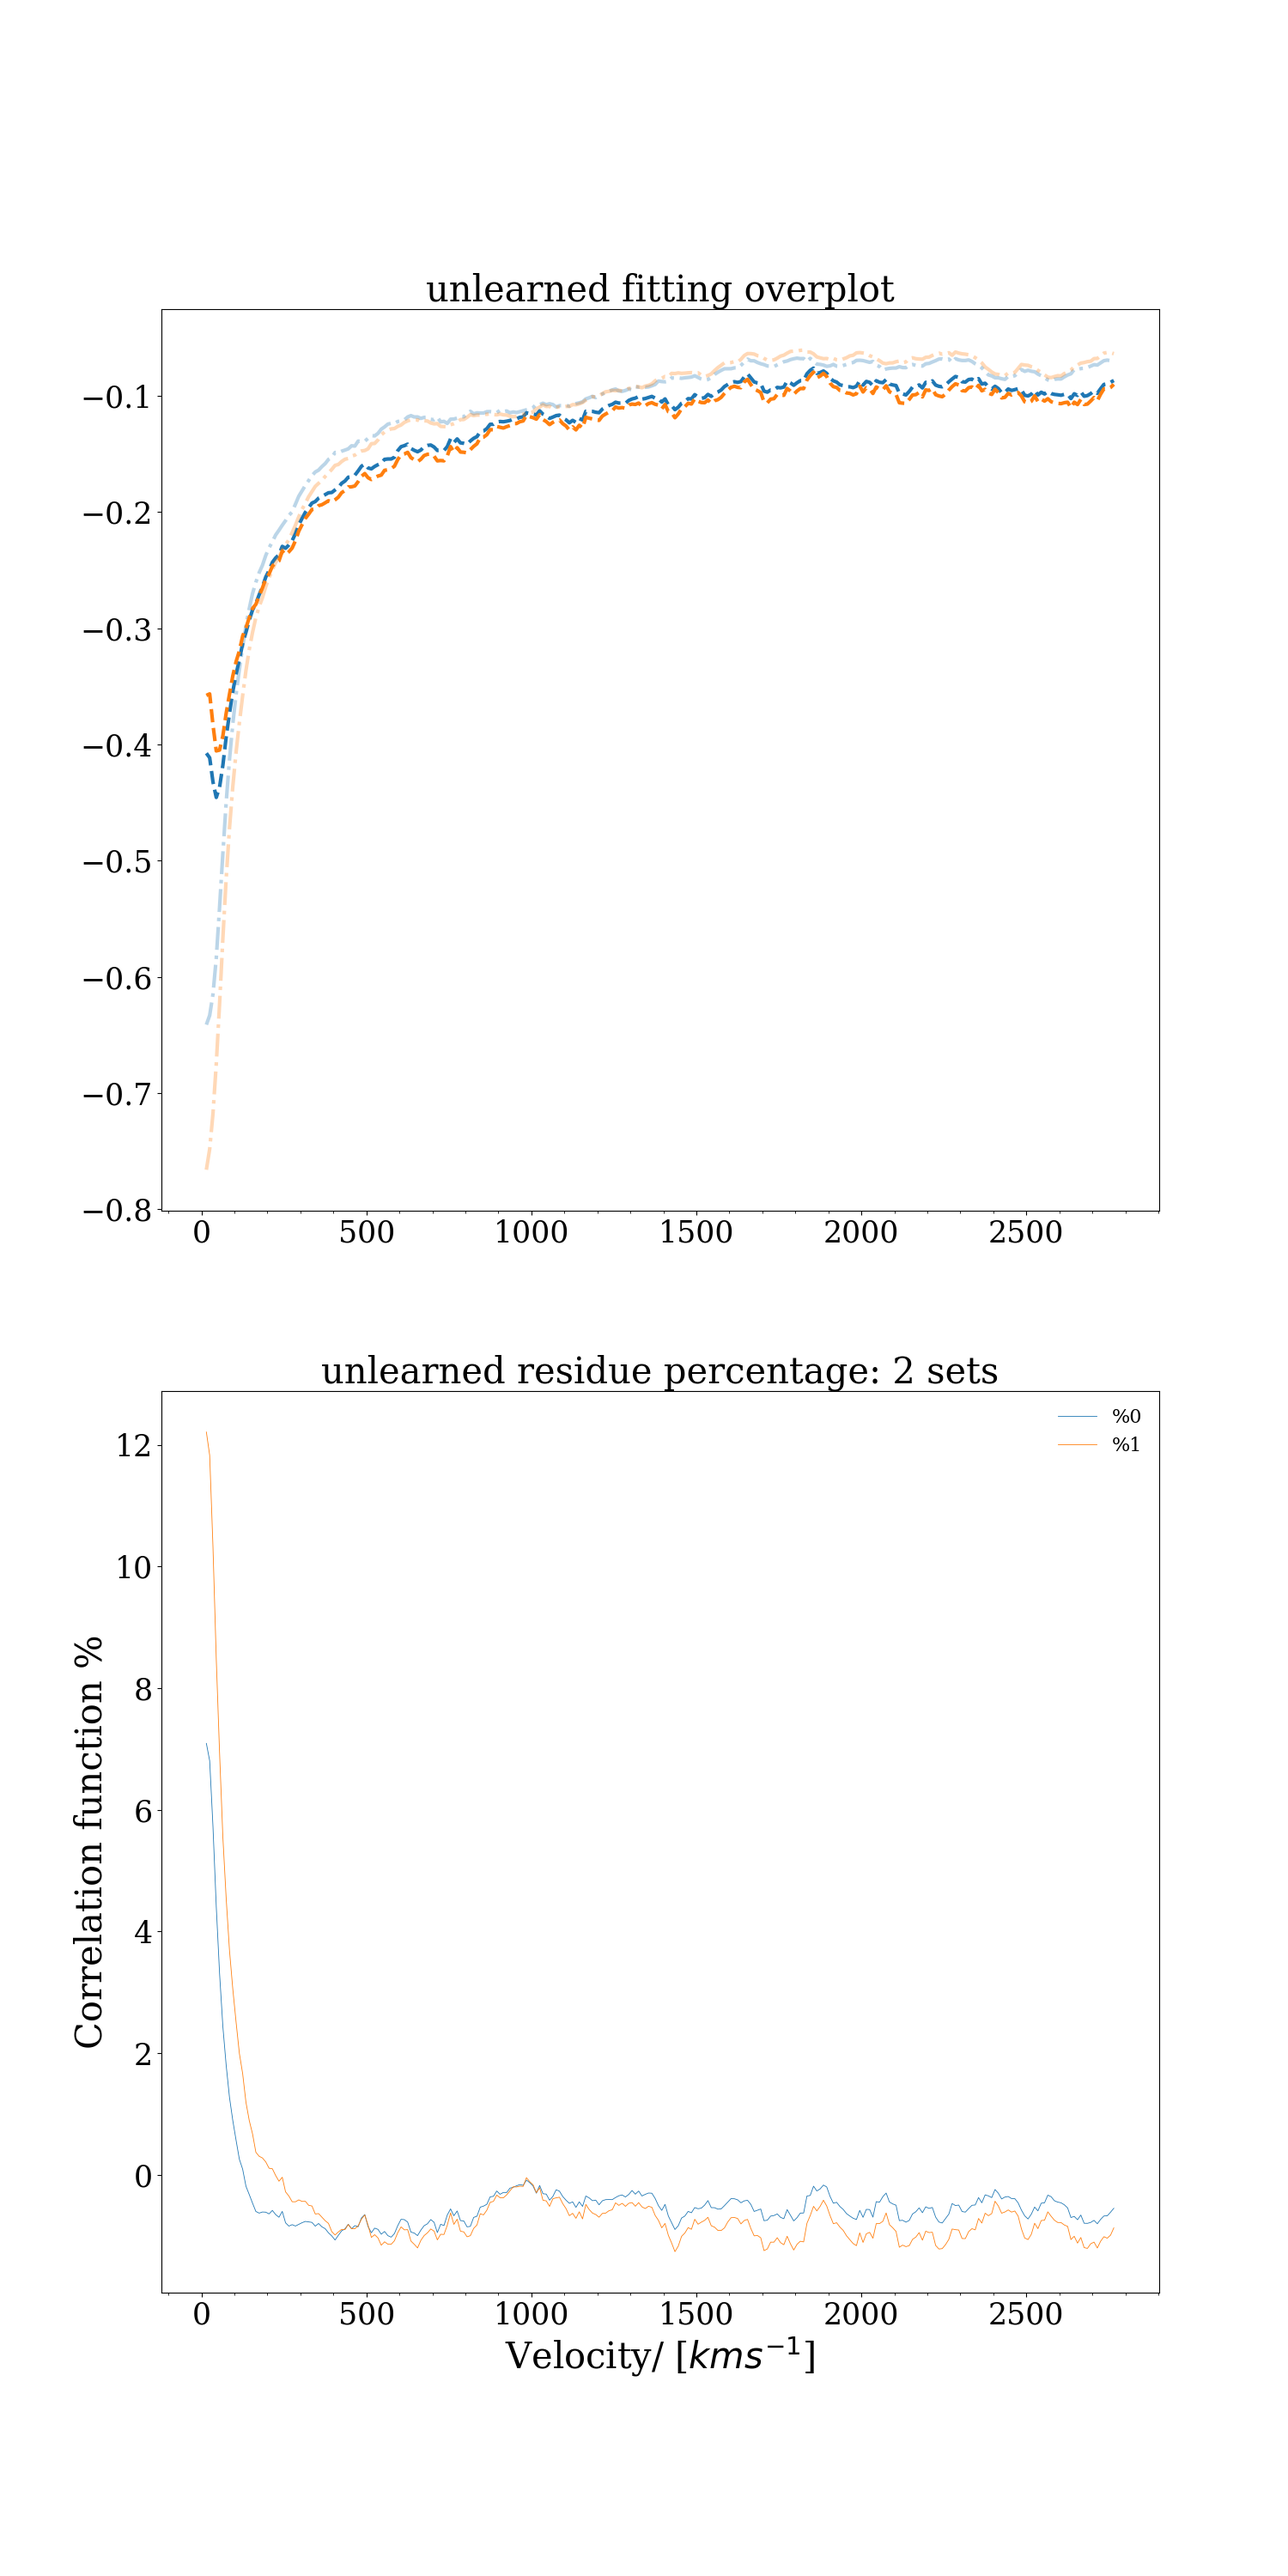
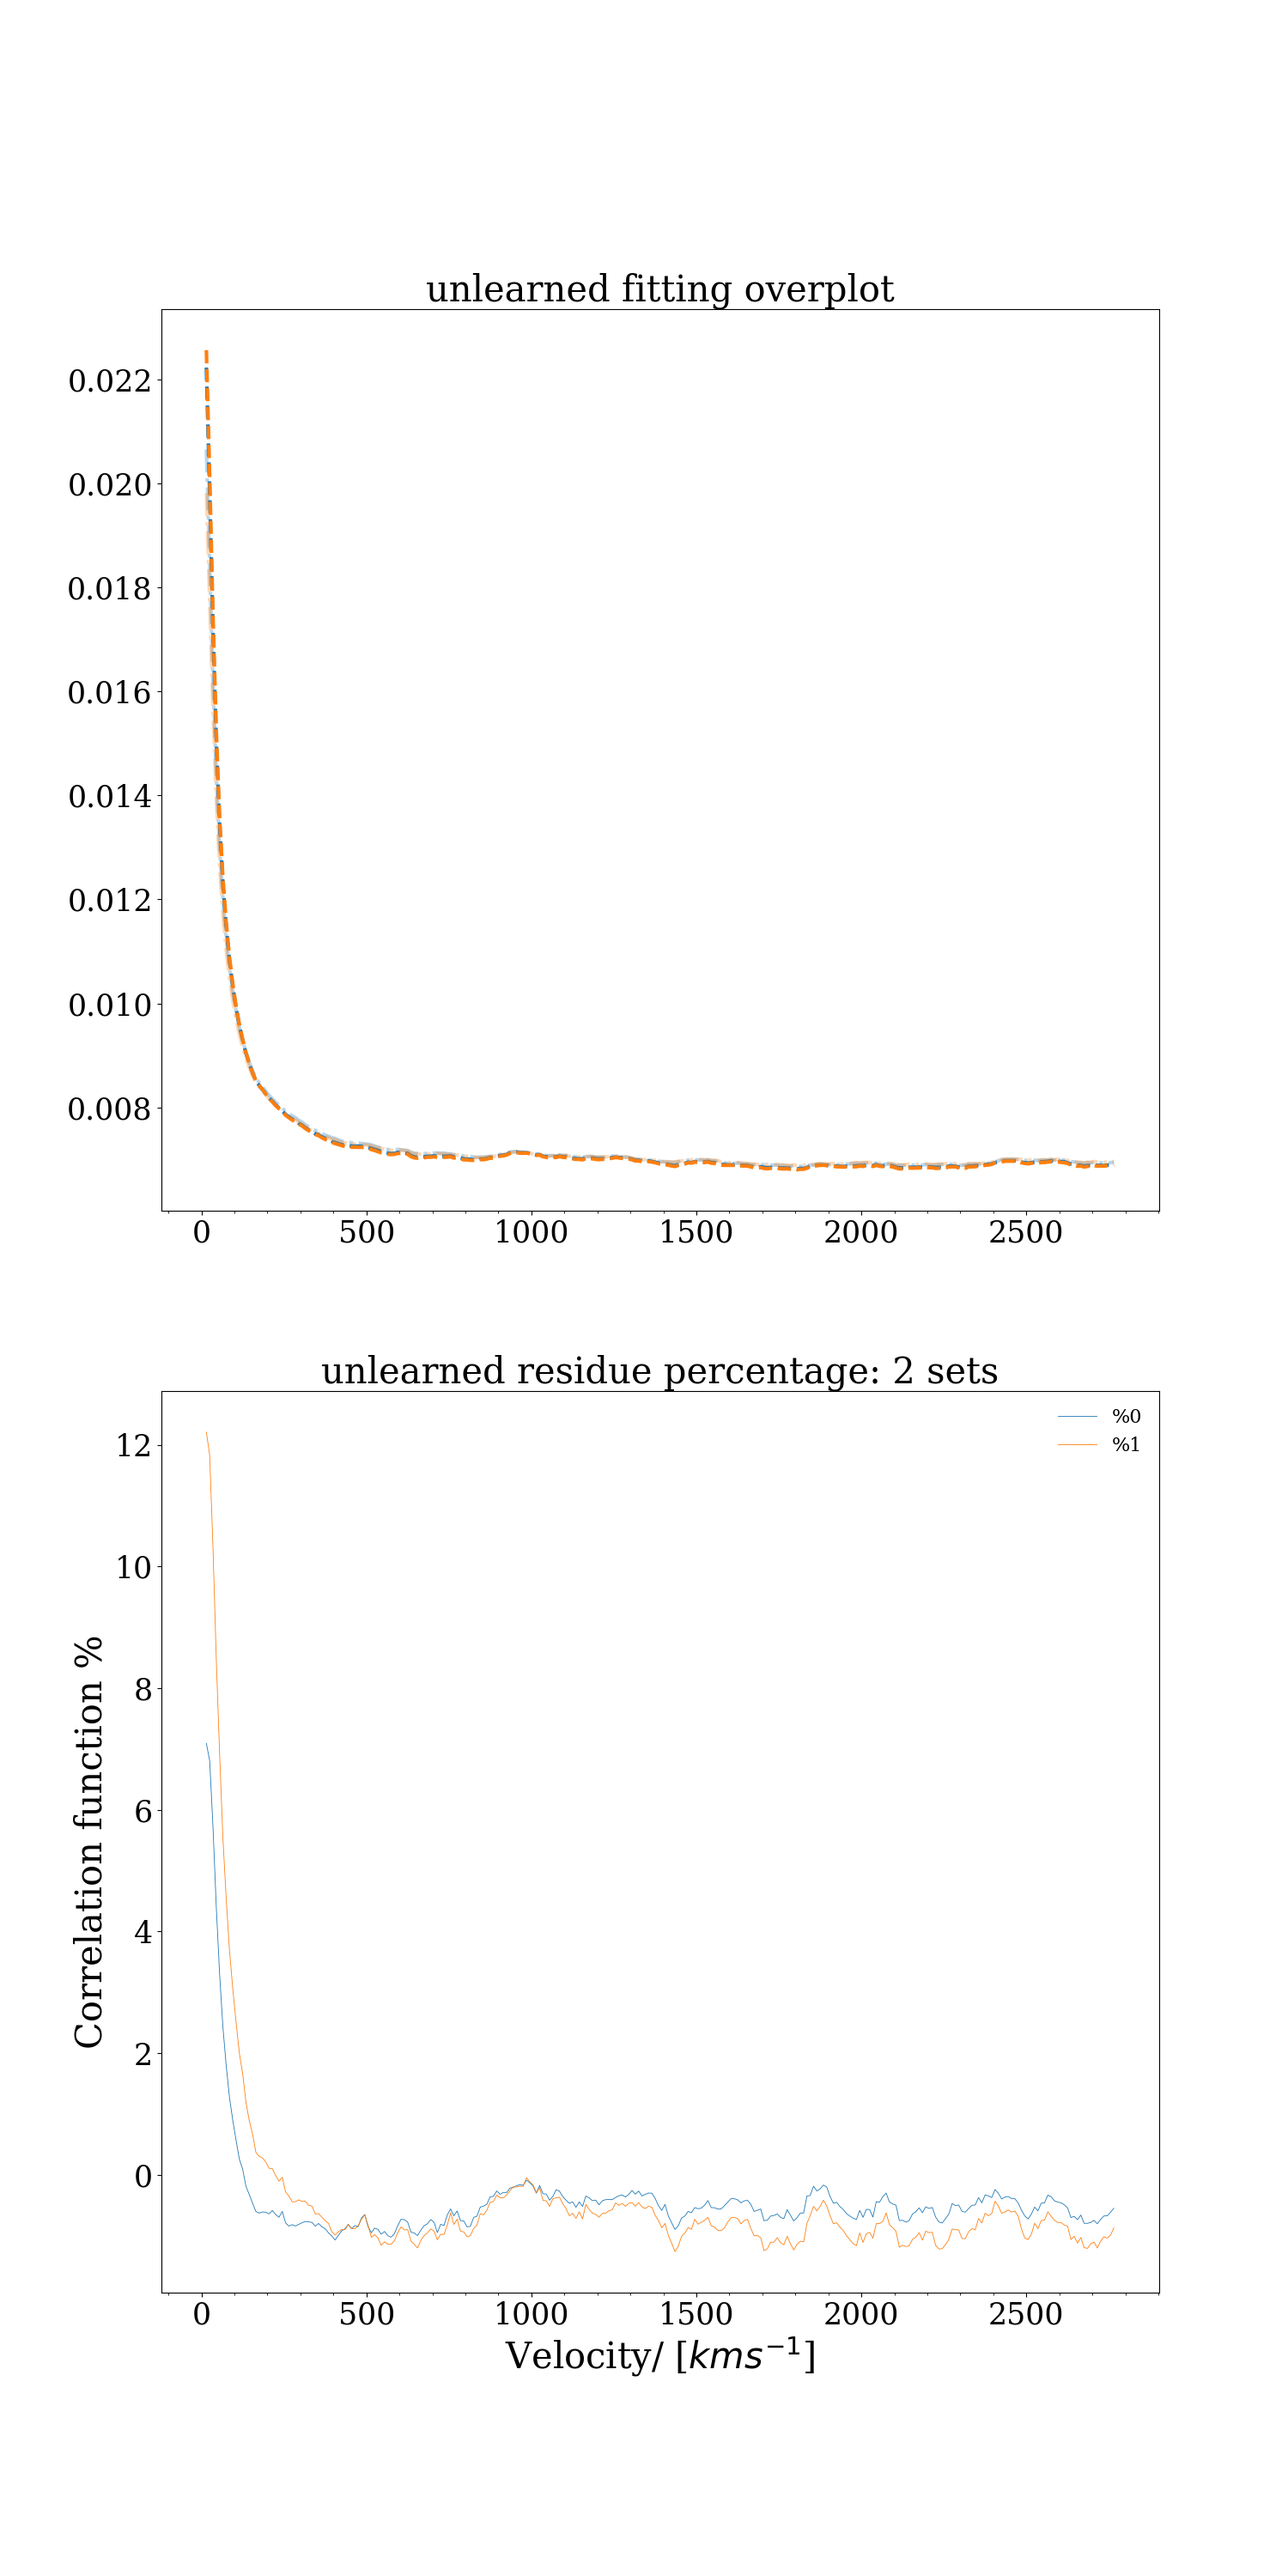
change all to data space

diff --git a/igm_emulator/emulator/plotVis.py b/igm_emulator/emulator/plotVis.py
@@ -142,7 +142,7 @@ def train_overplot(preds, X, Y, meanY, stdY):
 
 def test_overplot(test_preds, Y_test, X_test,meanX,stdX,meanY,stdY):
     ax = v_bins
-    sample = 8  # number of functions plotted
+    sample = 10  # number of functions plotted
     fig2, axs2 = plt.subplots(1, 1)
     fig2.set_figwidth(15)
     fig2.set_figheight(15)
@@ -178,7 +178,7 @@ def plot_residue(new_delta):
     plt.show()
 
 
-def bad_learned_plots(delta,X_test,Y_test,test_preds):
+def bad_learned_plots(delta,X_test,Y_test,test_preds,meanY,stdY):
     unlearnt_idx = []
     for i, d in enumerate(delta):
         for j, e in enumerate(d):
@@ -194,6 +194,8 @@ def bad_learned_plots(delta,X_test,Y_test,test_preds):
     fig2.set_figheight(30)
     axs2[0].title.set_text('unlearned fitting overplot')
     axs2[1].title.set_text('unlearned residual [%]')
+    Y_test = Y_test * stdY + meanY
+    test_preds = test_preds * stdY + meanY
     for i in range(unlearnt_idx.shape[0]):
         axs2[0].plot(ax, test_preds[unlearnt_idx[i]], label=f'Preds {i}:' r'$<F>$='f'{X_test[unlearnt_idx[i], 0]:.2f},'
                                                             r'$T_0$='f'{X_test[unlearnt_idx[i], 1]:.2f},'

diff --git a/igm_emulator/emulator/emulator_train.py b/igm_emulator/emulator/emulator_train.py
@@ -139,5 +139,5 @@ print('Test R^2 Score: {}\n'.format(test_R2))  # R^2 score: ranging 0~1, 1 is go
 print(f'accuracy: {jnp.mean(delta)*100}')
 
 plot_residue(delta)
-bad_learned_plots(delta,X_test,Y_test,test_preds)
+bad_learned_plots(delta,X_test,Y_test,test_preds,meanY,stdY)
 plot_error_distribution(delta)
